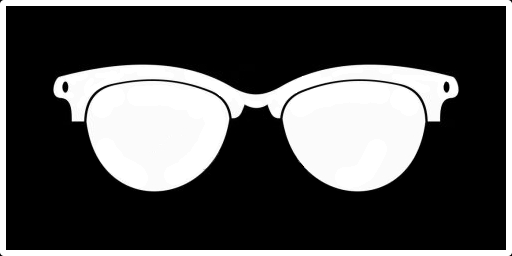
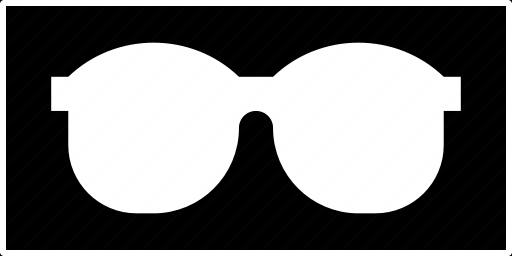
Обновил иконку очков

Changed region(s): [[0.0938, 0.1562, 0.9062, 0.8438]]

diff --git a/Assets/Scripts/Other/BuildInfo.cs b/Assets/Scripts/Other/BuildInfo.cs
@@ -1,2 +1,2 @@
-public static class BuildInfo{public static string BUILD_DATE = "21.10.2019";public static string BUILD_NUMBER = "13";}
+public static class BuildInfo{public static string BUILD_DATE = "10.11.2019";public static string BUILD_NUMBER = "16";}
 //Данный класс создаётся автоматически редактирование осуществляется в классе PreprocessBuild
